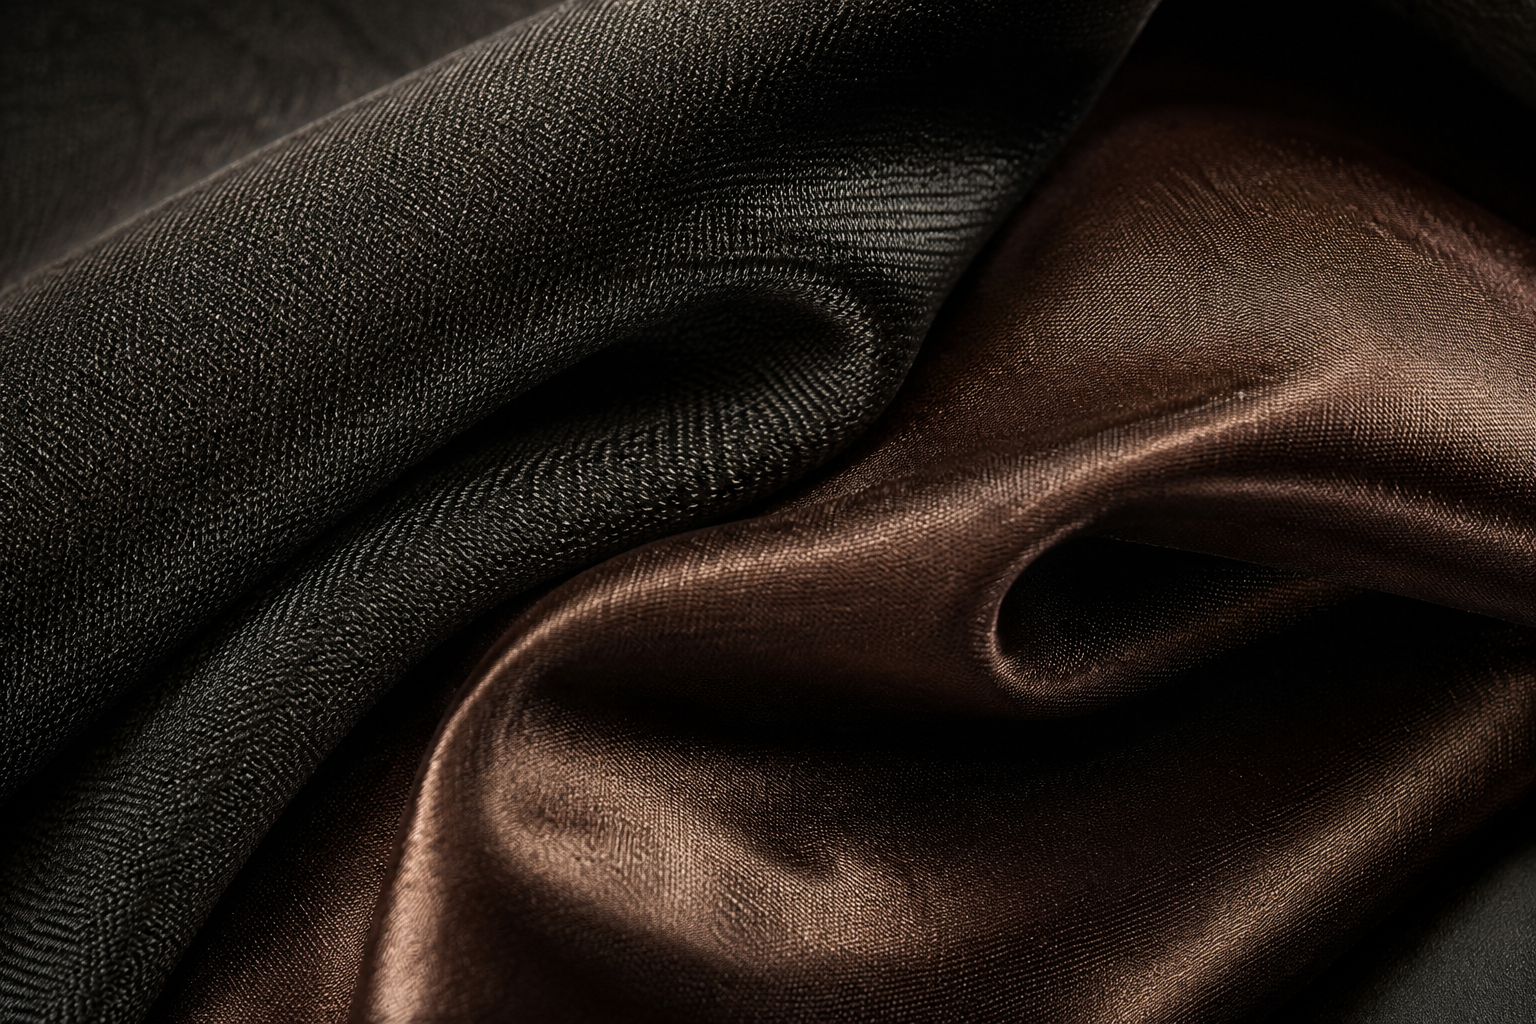
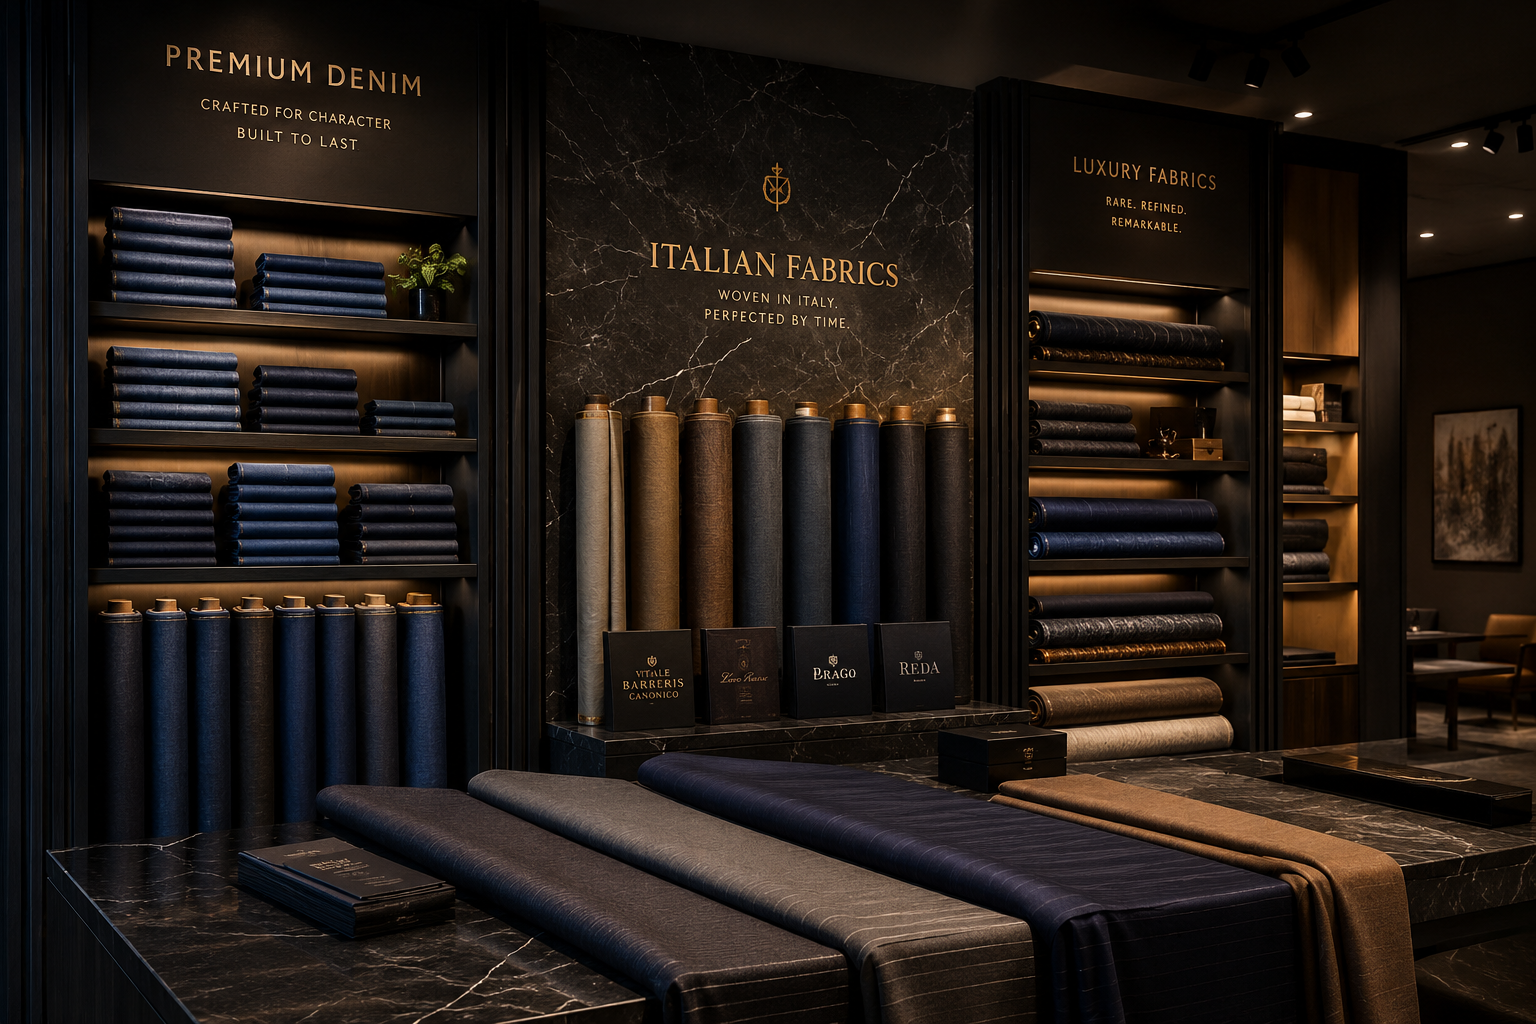
fix: remove overflow-hidden to restore sticky and fix GSAP animation overwrites in QualityAndVision

diff --git a/frontend/src/components/about/QualityAndVision.jsx b/frontend/src/components/about/QualityAndVision.jsx
@@ -25,25 +25,33 @@ export default function QualityAndVision() {
       // Setup ScrollTriggers for each text block to reveal its corresponding image
       rightTextsRef.current.forEach((text, i) => {
         
+        const updateImages = (activeIndex) => {
+          leftImagesRef.current.forEach((img, index) => {
+            if (index === activeIndex) {
+              gsap.to(img, { autoAlpha: 1, duration: 0.5, overwrite: "auto" });
+            } else {
+              gsap.to(img, { autoAlpha: 0, duration: 0.5, overwrite: "auto" });
+            }
+          });
+        };
+
         ScrollTrigger.create({
           trigger: text,
           start: "top center",
           end: "bottom center",
           onEnter: () => {
-            gsap.to(leftImagesRef.current, { autoAlpha: 0, duration: 0.5 });
-            gsap.to(leftImagesRef.current[i], { autoAlpha: 1, duration: 0.5 });
-            gsap.to(text, { opacity: 1, x: 20, duration: 0.5 });
+            updateImages(i);
+            gsap.to(text, { opacity: 1, x: 20, duration: 0.5, overwrite: "auto" });
           },
           onEnterBack: () => {
-            gsap.to(leftImagesRef.current, { autoAlpha: 0, duration: 0.5 });
-            gsap.to(leftImagesRef.current[i], { autoAlpha: 1, duration: 0.5 });
-            gsap.to(text, { opacity: 1, x: 20, duration: 0.5 });
+            updateImages(i);
+            gsap.to(text, { opacity: 1, x: 20, duration: 0.5, overwrite: "auto" });
           },
           onLeave: () => {
-            gsap.to(text, { opacity: 0.2, x: 0, duration: 0.5 });
+            gsap.to(text, { opacity: 0.2, x: 0, duration: 0.5, overwrite: "auto" });
           },
           onLeaveBack: () => {
-            gsap.to(text, { opacity: 0.2, x: 0, duration: 0.5 });
+            gsap.to(text, { opacity: 0.2, x: 0, duration: 0.5, overwrite: "auto" });
           }
         });
       });
@@ -65,7 +73,7 @@ export default function QualityAndVision() {
   };
 
   return (
-    <section ref={containerRef} className="py-24 bg-[#F5F0E8] text-[#151515] relative overflow-hidden">
+    <section ref={containerRef} className="py-24 bg-[#F5F0E8] text-[#151515] relative">
       
       <div className="max-w-7xl mx-auto px-6 md:px-12 mb-32">
         {/* Massive Image Banner */}
